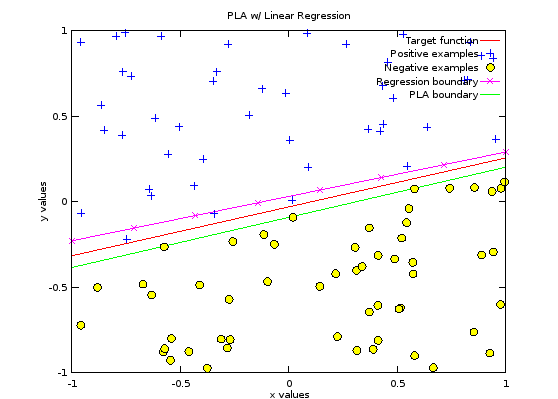
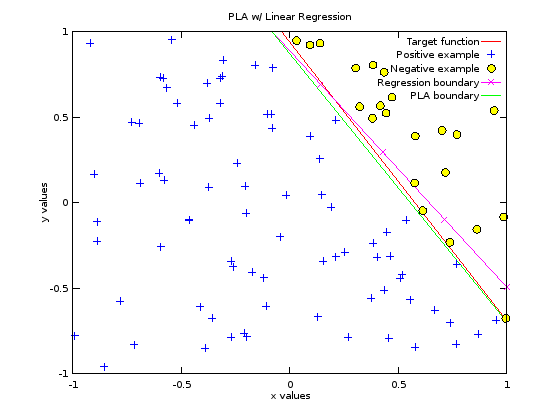
Updated legend.

diff --git a/week-02/src/plot_lr_pla.m b/week-02/src/plot_lr_pla.m
@@ -73,4 +73,4 @@ w = pla (X, y, w,  maxiter, 0);
 % Plots the final decision boundary
 plotboundary (w, limits, "g");
 
-legend ("Target function", "Positive examples", "Negative examples", "Regression boundary", "PLA boundary");
+legend ("Target function", "Positive example", "Negative example", "Regression boundary", "PLA boundary");
